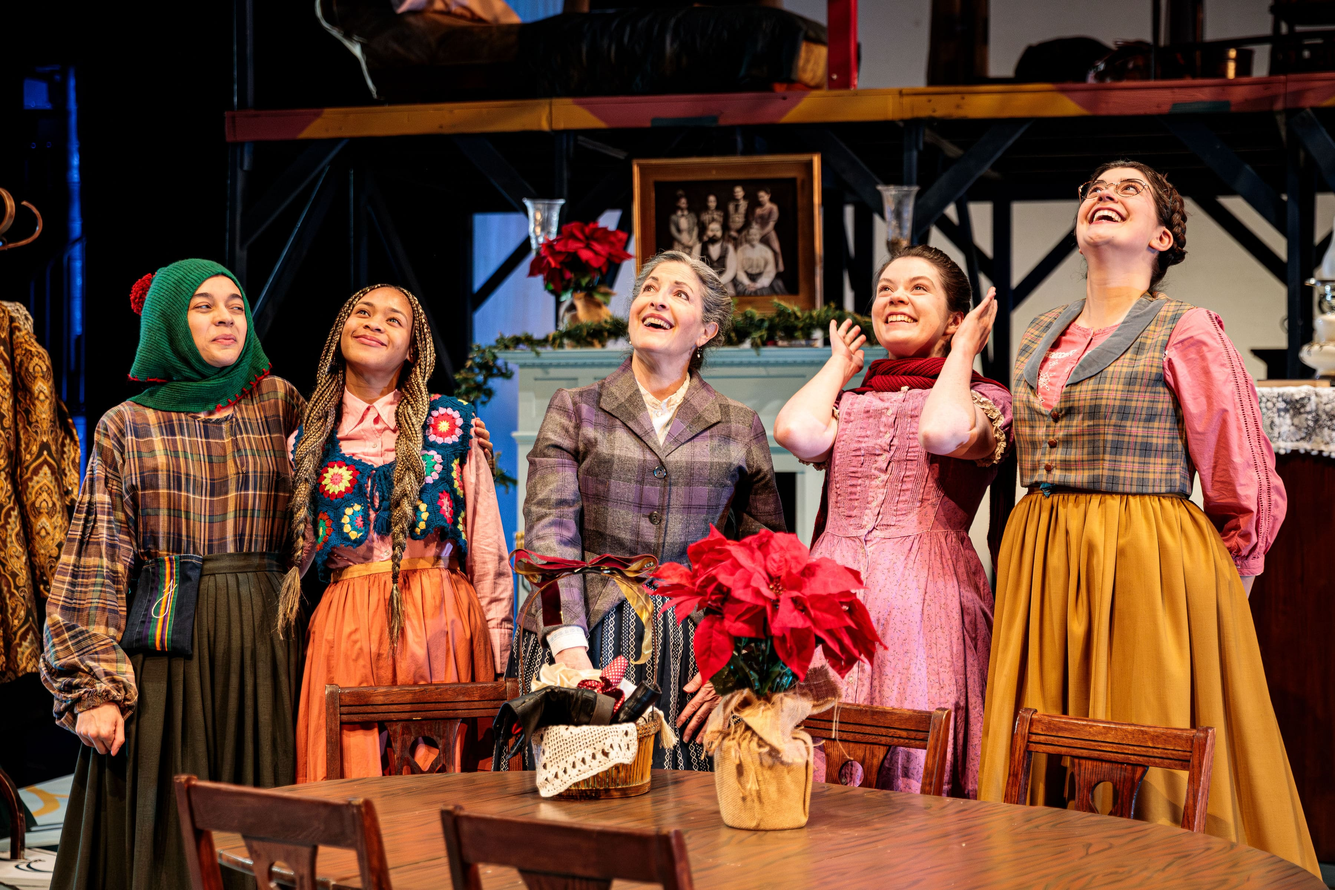
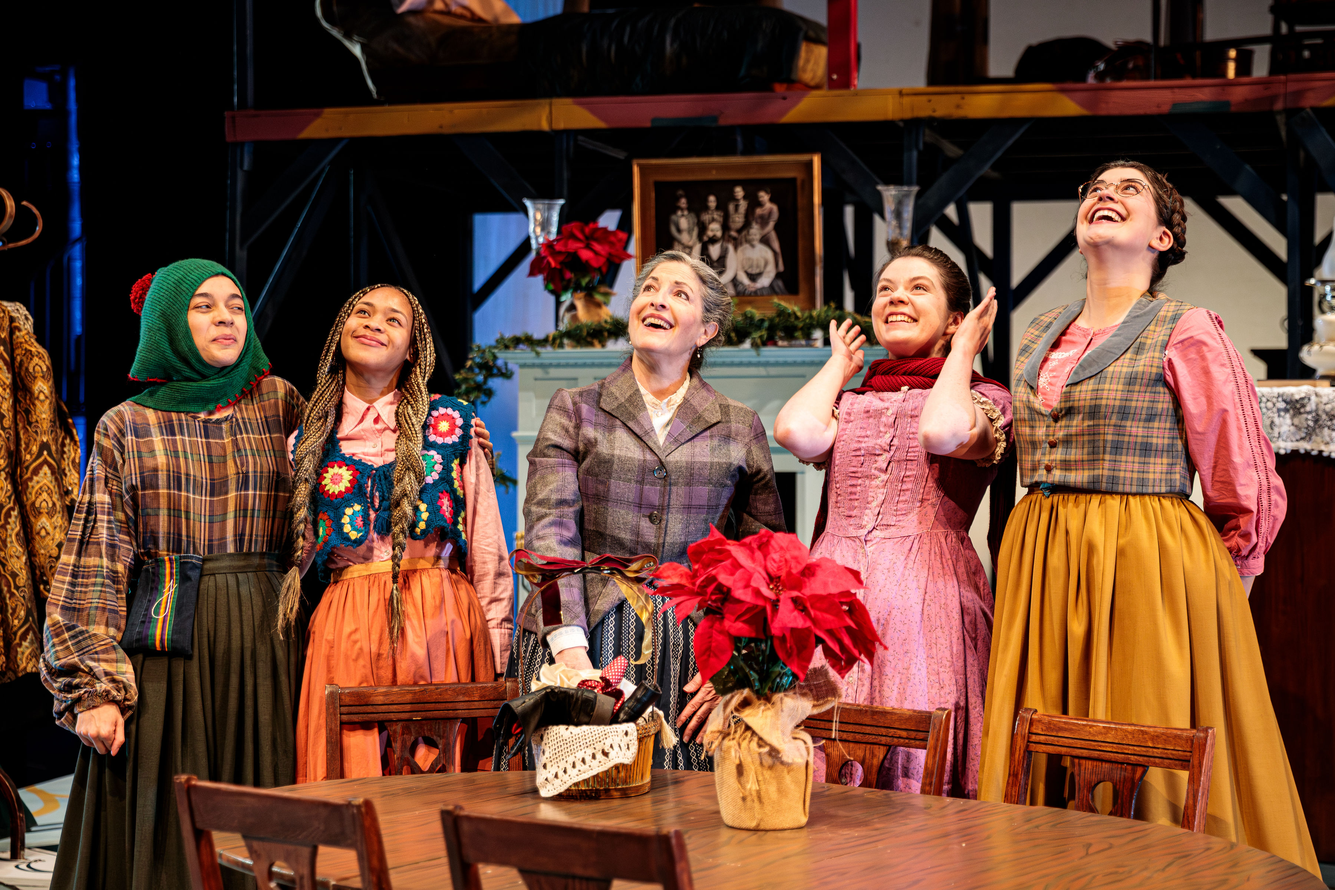
Update info - July 4, 2026

Changed region(s): [[0.6533, 0.4062, 0.7156, 0.4375], [0.2489, 0.5625, 0.28, 0.5938]]

diff --git a/js/photos.js b/js/photos.js
@@ -22,18 +22,19 @@ document.addEventListener('click', (e) => {
 // filter: 'one' = Theatre, 'two' = Marketing, 'three' = Headshots
 // ========================================
 const galleryItems = [
-    { id: 0,  thumb: '../src/LWprodphotos1.jpg',    full: '../src/LWprodphotos1.jpg',    filter: 'one',   alt: 'Theatre' },
+    { id: 0,  thumb: '../src/RJprodphoto2.jpg',    full: '../src/RJprodphoto2.jpg',    filter: 'one',   alt: 'Theatre' },
     { id: 1,  thumb: '../src/LWprodphotos2.jpg',    full: '../src/LWprodphotos2.jpg',    filter: 'one',   alt: 'Theatre' },
     { id: 2,  thumb: '../src/LWprodphotos3.jpg',    full: '../src/LWprodphotos3.jpg',    filter: 'one',   alt: 'Theatre' },
+    { id: 4,  thumb: '../src/LWprodphotos1.jpg',    full: '../src/LWprodphotos1.jpg',    filter: 'one',   alt: 'Theatre' },
     { id: 5,  thumb: '../src/TGprodphoto1.jpg',     full: '../src/TGprodphoto1.jpg',     filter: 'one',   alt: 'Theatre' },
     { id: 6,  thumb: '../src/headshot1.jpg',     full: '../src/headshot1.jpg',     filter: 'three', alt: 'Headshots' },
     { id: 7,  thumb: '../src/headshot2.jpg',     full: '../src/headshot2.jpg',     filter: 'three', alt: 'Headshots' },
     { id: 8,  thumb: '../src/headshot3.jpg',     full: '../src/headshot3.jpg',     filter: 'three', alt: 'Headshots' },
-    { id: 6,  thumb: '../src/headshot4.jpg',     full: '../src/headshot4.jpg',     filter: 'three', alt: 'Headshots' },
-    { id: 7,  thumb: '../src/headshot5.jpg',     full: '../src/headshot5.jpg',     filter: 'three', alt: 'Headshots' },
-    { id: 8,  thumb: '../src/headshot7.jpg',     full: '../src/headshot7.jpg',     filter: 'three', alt: 'Headshots' },
-    { id: 3,  thumb: '../src/CMdigital1.JPG',     full: '../src/CMdigital1.JPG',     filter: 'two',   alt: 'Digitals' },
-    { id: 4,  thumb: '../src/CMdigital2.jpg',     full: '../src/CMdigital2.jpg',     filter: 'two',   alt: 'Digitals' },
+    { id: 9,  thumb: '../src/headshot4.jpg',     full: '../src/headshot4.jpg',     filter: 'three', alt: 'Headshots' },
+    { id: 10,  thumb: '../src/headshot5.jpg',     full: '../src/headshot5.jpg',     filter: 'three', alt: 'Headshots' },
+    { id: 11,  thumb: '../src/headshot7.jpg',     full: '../src/headshot7.jpg',     filter: 'three', alt: 'Headshots' },
+    { id: 12,  thumb: '../src/CMdigital1.JPG',     full: '../src/CMdigital1.JPG',     filter: 'two',   alt: 'Digitals' },
+    { id: 13,  thumb: '../src/CMdigital2.jpg',     full: '../src/CMdigital2.jpg',     filter: 'two',   alt: 'Digitals' },
 ];
 
 

diff --git a/index.html b/index.html
@@ -153,8 +153,7 @@
         </div>
 
         <!-- ===================== MY WORK — SCROLLING GALLERY =====================
-             Exact same structure as Jordan Berke's site.
-             .divider wrapper > .gallery-wrapper > .scroll-container > .image-card
+\
         ============================================================ -->
         <div class="divider">
             <h2 class="my-work-title">My Work</h2>
@@ -162,7 +161,7 @@
                 <div class="scroll-container" id="scrollContainer">
 
                     <div class="image-card">
-                        <img data-src="/src/CMProductionPhotoLB.jpg" alt="Chloe McFarlane — La Bete" class="lazy-image" width="400" height="300">
+                        <img data-src="/src/RJprodphoto2.jpg" alt="Chloe McFarlane — Romeo and Juliet" class="lazy-image" width="400" height="300">
                         <div class="image-loader"></div>
                     </div>
                     <div class="image-card">
